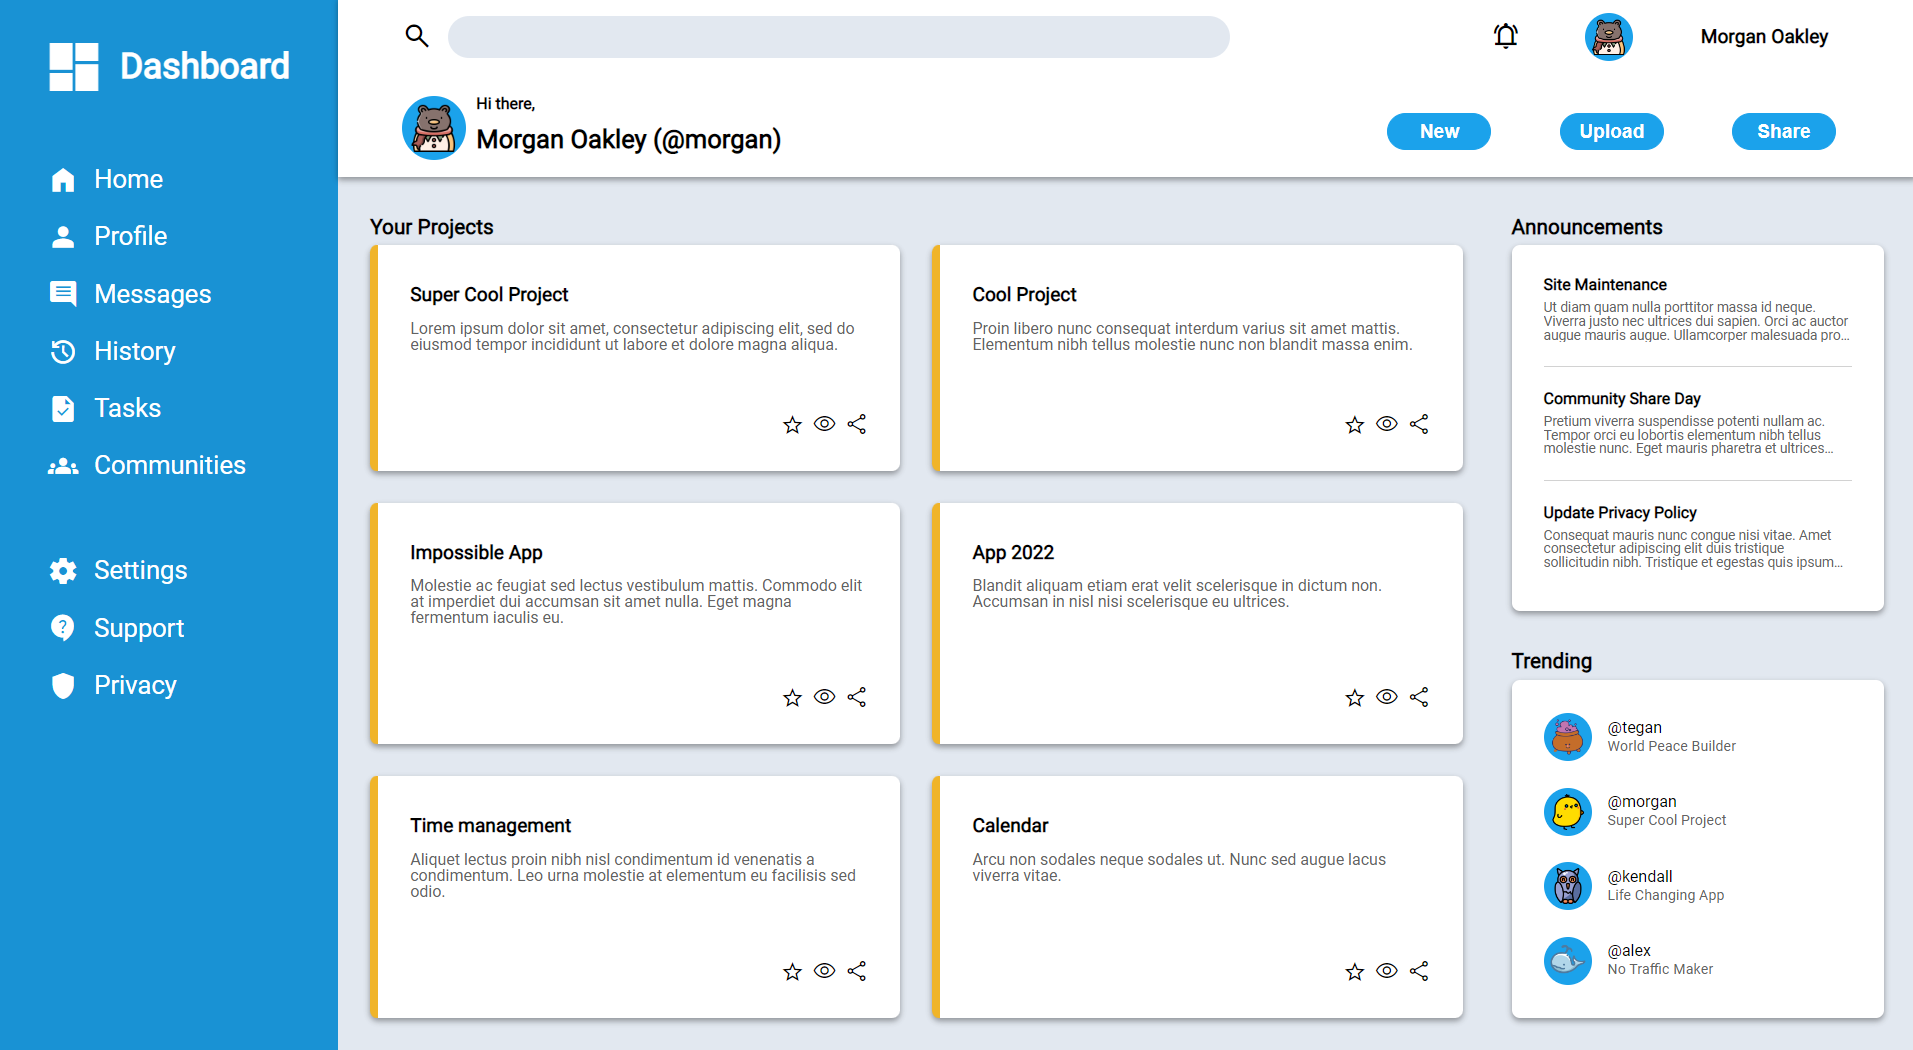
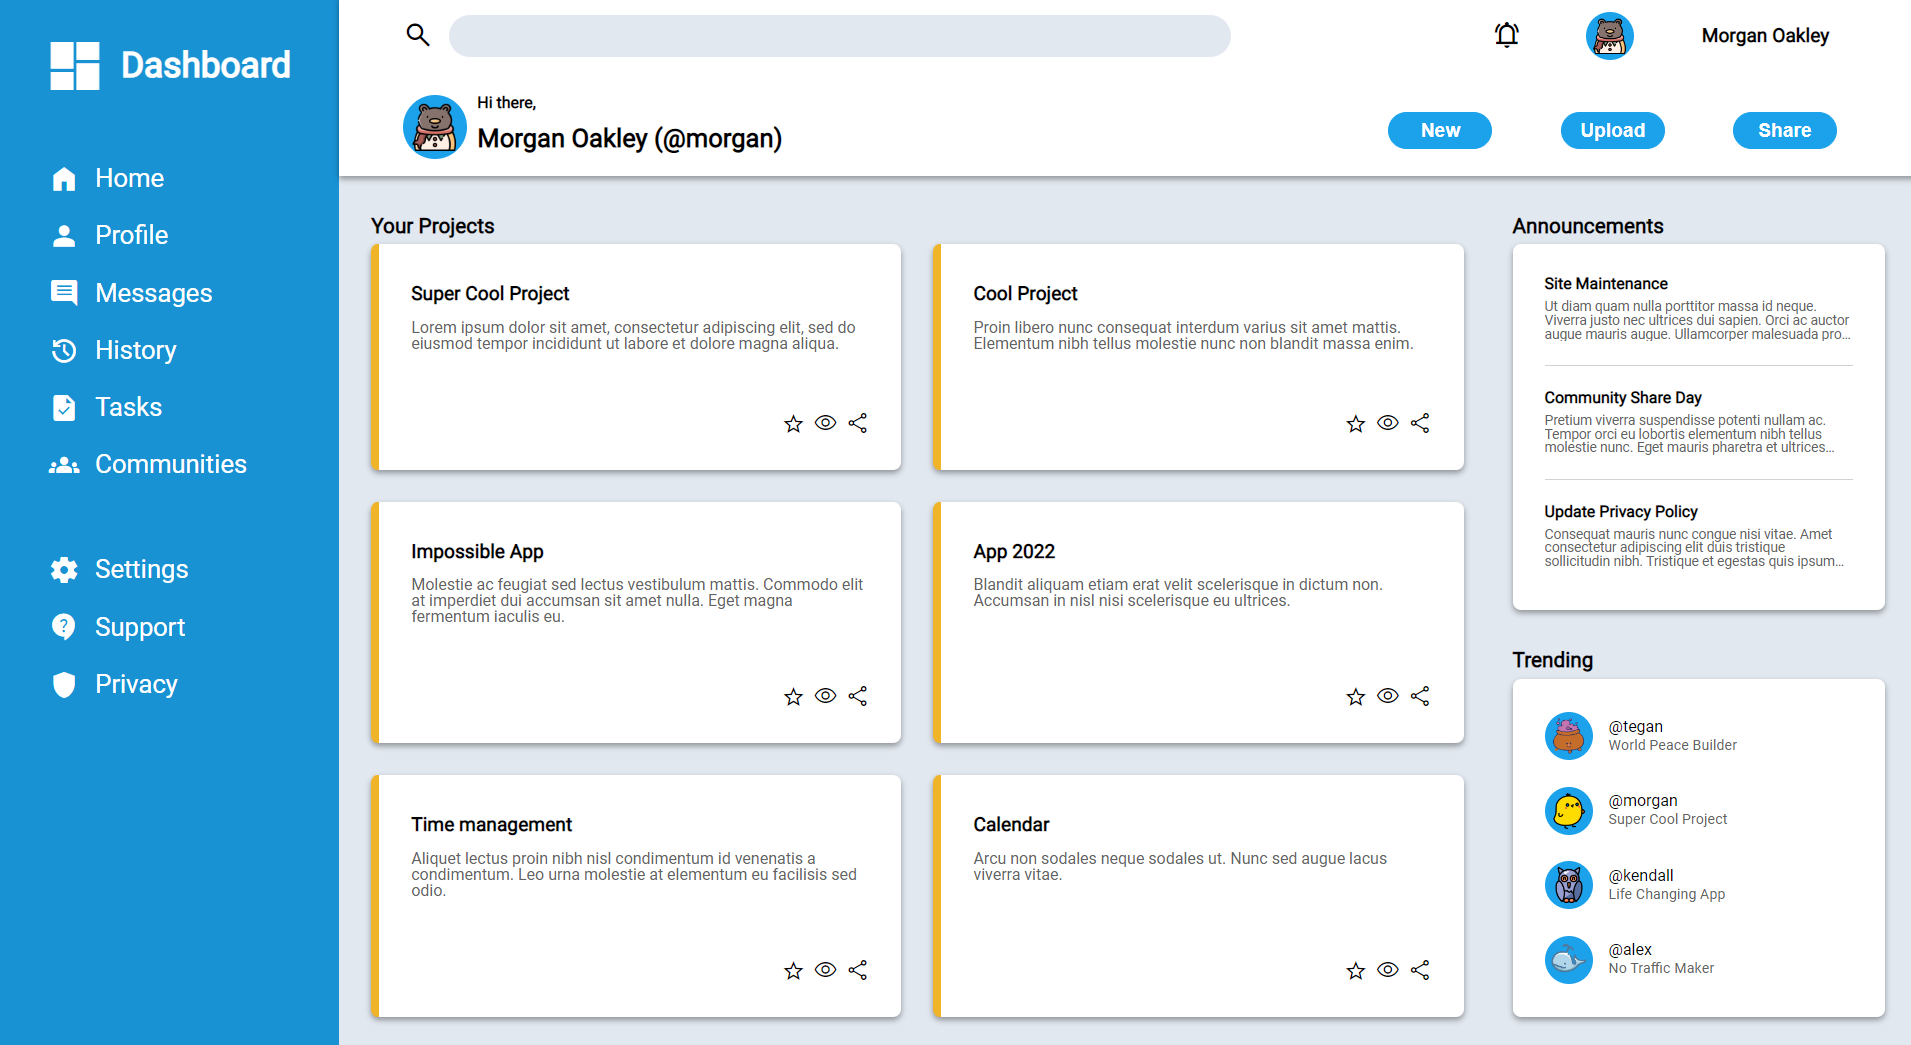
Layout is fixed

diff --git a/style.css b/style.css
@@ -318,7 +318,6 @@ body {
     display: grid;
     grid-template-rows: auto auto 1fr;
     border-left: 8px solid #F0B429;
-
 }
 
 .card,
@@ -400,11 +399,6 @@ body {
     display: -webkit-box;
     -webkit-line-clamp: 3; /* after 3 line show ... */
     -webkit-box-orient: vertical;
-}
-
-.information .info:nth-child(n+2) h1 {
-    margin-top: 3rem;
-    background-color: gold;
 }
 
 .trendings > .informations {
